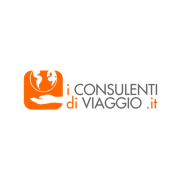
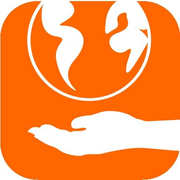
Add files via upload
VER42.1

diff --git a/index.html b/index.html
@@ -9,8 +9,8 @@
     <meta name="theme-color" content="#f47b20" />
     <title>CRM Reclutamento</title>
     <link rel="manifest" href="manifest.webmanifest" />
-    <link rel="icon" type="image/png" href="icons/icon-192.png" />
-    <link rel="apple-touch-icon" href="icons/apple-touch-icon.png" />
+    <link rel="icon" type="image/png" sizes="32x32" href="icons/favicon-32.png?v=42-logo" />
+    <link rel="apple-touch-icon" href="icons/apple-touch-icon.png?v=42-logo" />
     <meta name="apple-mobile-web-app-capable" content="yes" />
     <meta name="apple-mobile-web-app-title" content="CRM Reclutamento" />
     <meta name="apple-mobile-web-app-status-bar-style" content="default" />
